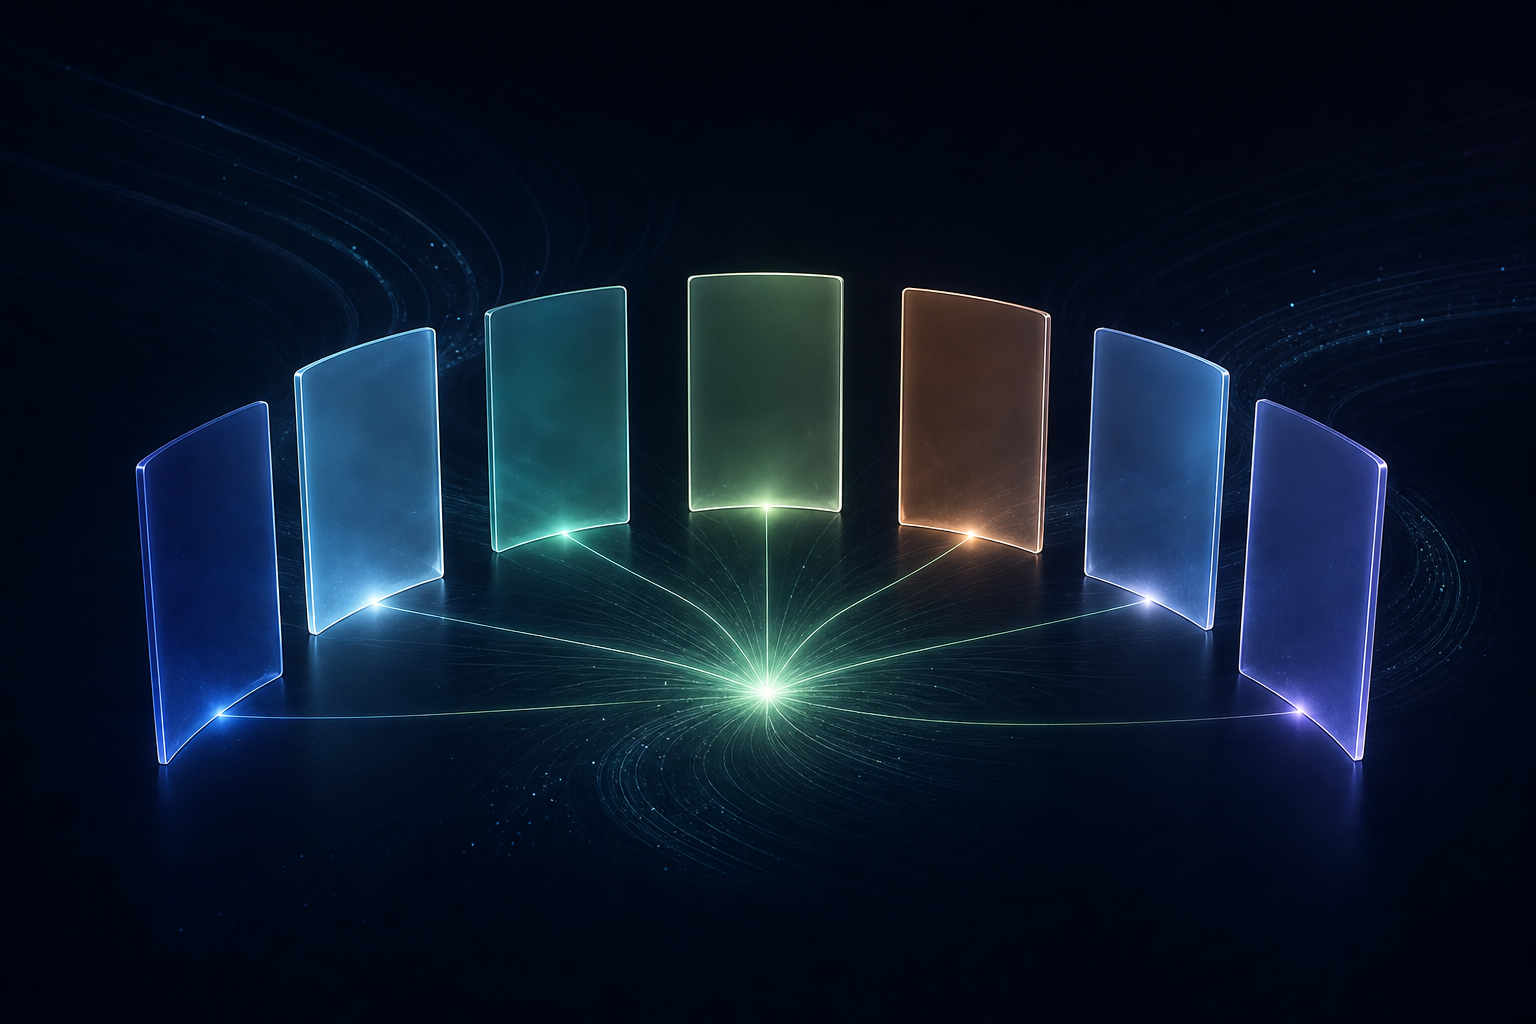
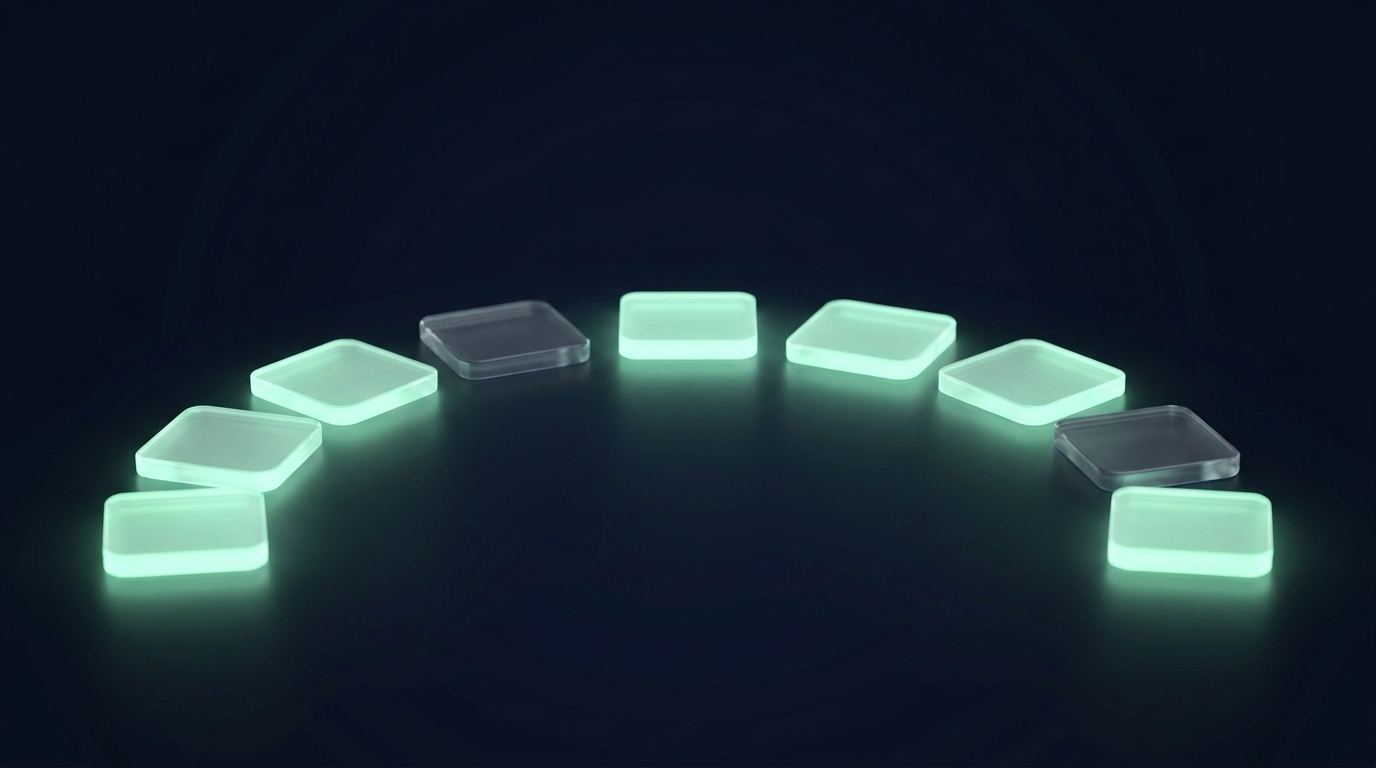
design: frosted-glass heroes for the review-council-seats and Intelligence Council papers
Addy's picks from a 15-candidate sheet generated with Nano Banana Pro using
the site's original paper images as style references. C11 (one slab, the
light under the surface) goes to the review-council-seats paper: the model's
light was there, the harness never surfaced it. C4 (nine seats in an arc,
seven lit, two dark) goes to the Intelligence Council paper: its seven-model
reference council and the failure mode it flagged. Both at 1376x768, the
originals' size. Alt text rewritten to describe the new images.

Claude-Session: https://claude.ai/code/session_019am3xX9dCQhVqqypukq2cz

Changed region(s): [[0.0312, 0.25, 0.9688, 0.875], [0.8438, 0.3125, 0.9062, 0.3438], [0.2188, 0.2188, 0.25, 0.2812]]

diff --git a/papers/index.html b/papers/index.html
@@ -374,7 +374,7 @@
         <div class="paper-section-label ssrn">Preprints &middot; SSRN</div>
 
         <article class="paper-card">
-            <img class="paper-image" src="/images/paper-reasoning-first-review-council.png" alt="Three frosted-glass review-council seats in a navy scene: two lit, one dark with its light drained into a glowing coil on the floor and a single thin stream relighting it">
+            <img class="paper-image" src="/images/paper-reasoning-first-review-council.png" alt="A single frosted-glass slab standing on a frosted-glass floor that glows from beneath: the light is under the surface and only a trace reaches the panel">
             <div class="paper-badges">
                 <span class="paper-badge published">Published on SSRN</span>
                 <span class="paper-badge">Reasoning Models</span>
@@ -399,7 +399,7 @@
         </article>
 
         <article class="paper-card">
-            <img class="paper-image" src="/images/paper-intelligence-council.png" alt="The Intelligence Council — seven independent AI models convening as a review panel, rendered as glowing frosted-glass panels in a navy scene">
+            <img class="paper-image" src="/images/paper-intelligence-council.png" alt="Nine frosted-glass seats in a shallow arc on a dark floor, seven glowing softly and two dark: the seven-model Intelligence Council">
             <div class="paper-badges">
                 <span class="paper-badge published">Published on SSRN</span>
                 <span class="paper-badge">Multi-Model</span>
